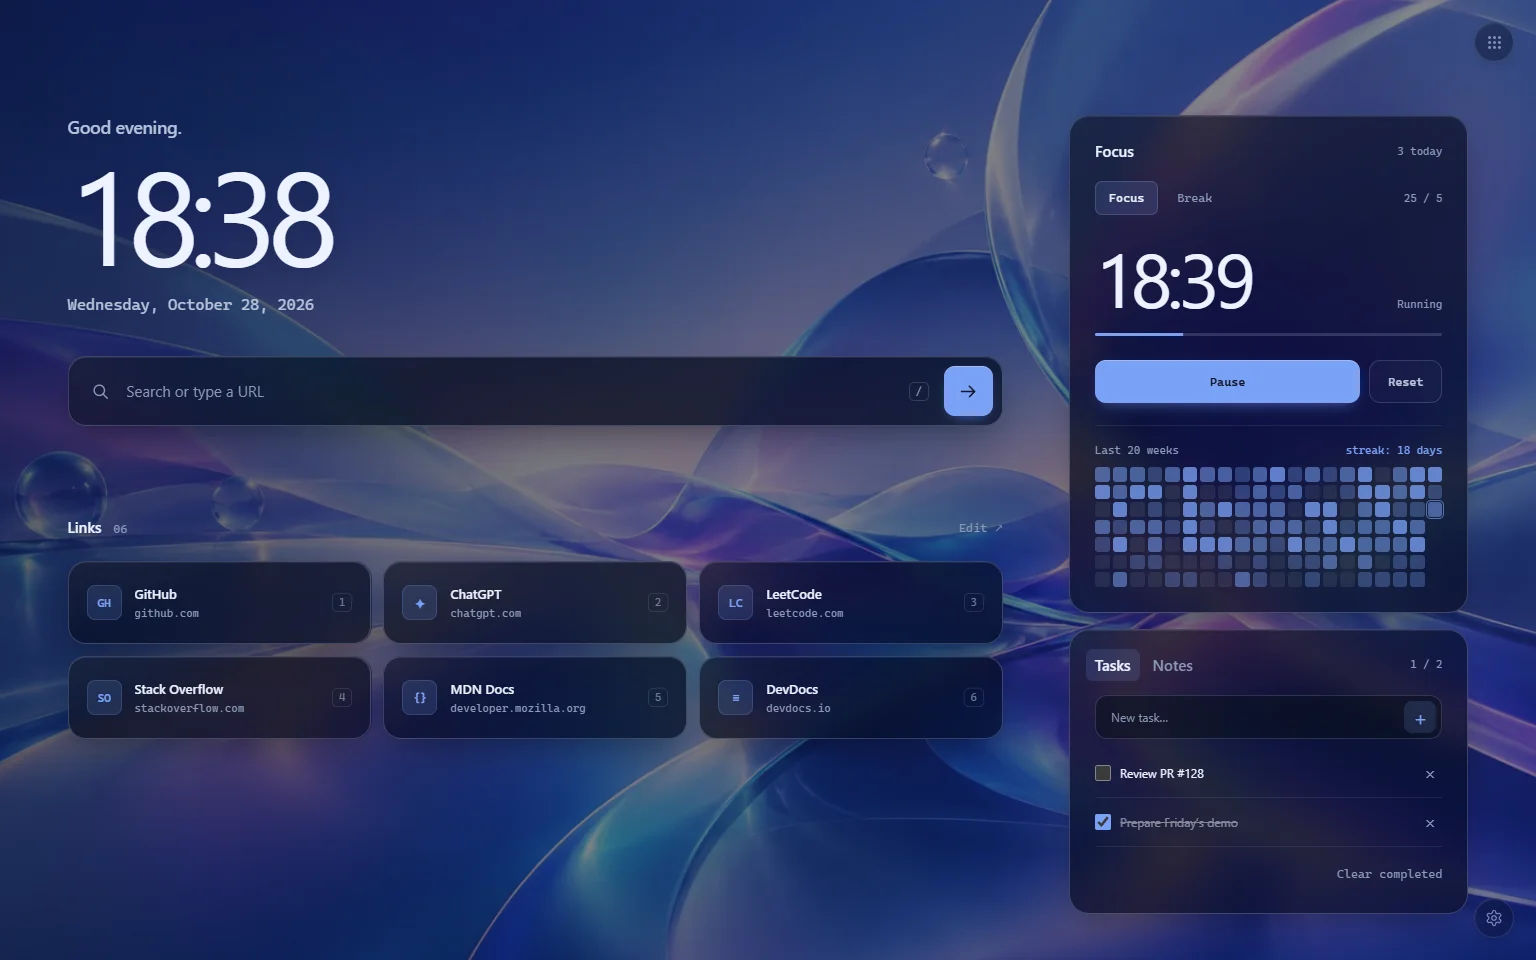
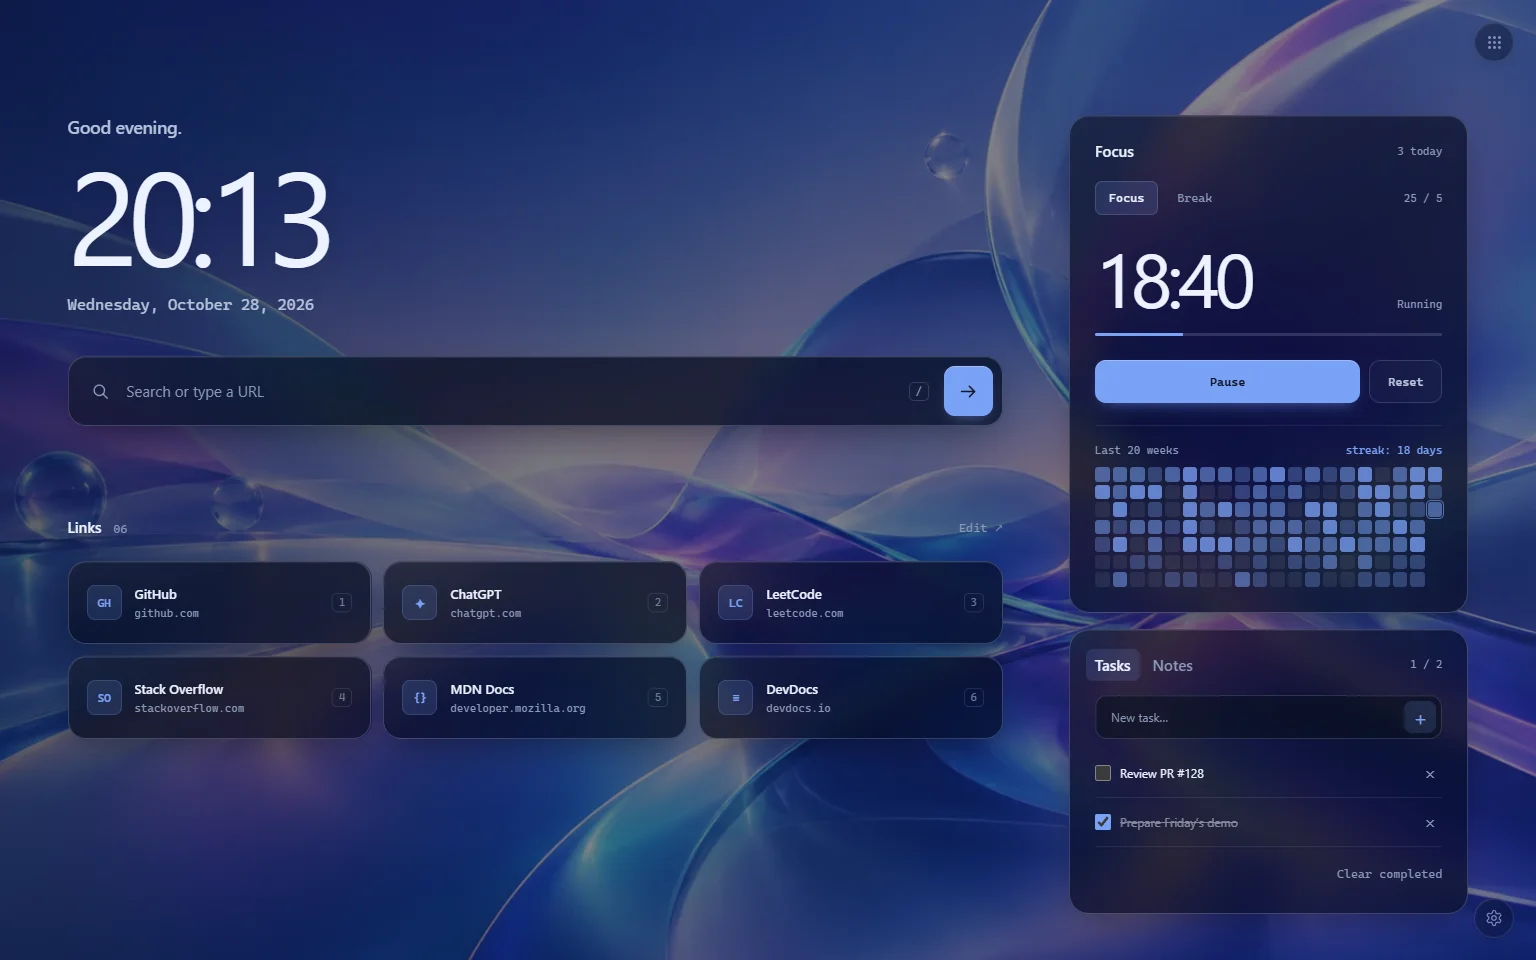
docs(wallpapers): keep the delivered provenance note
Add IMAGE_PROVENANCE.txt to docs/ exactly as it came with the wallpapers,
and point the README's license section to it. The Store notes now say what
it states (made for Atrio, no stock source, rights under the generator's
terms, not a legal guarantee) next to the PNGs' Content Credentials, and no
longer describe a conversion done here. The changelog gives the new sizes
and the Glass screenshot is taken again over the new Liquid Glass file.

Changed region(s): [[0.0312, 0.1562, 0.2188, 0.2812], [0.75, 0.25, 0.8125, 0.3438]]

diff --git a/docs/CHROME_WEB_STORE_LISTING.md b/docs/CHROME_WEB_STORE_LISTING.md
@@ -100,12 +100,14 @@ marked **Decide** or **Check** cannot be settled from the code and are the maint
 - **Wallpapers** (`assets/city.webp`, `assets/workstation.webp`): the author's own images, as stated by the
   maintainer. **Check:** keep the source files, and how they were made, as a record.
 - **Wallpapers added after 3.2.0** (`assets/deep-space.webp`, `warm-sand.webp`, `sunrise-lake.webp`,
-  `liquid-glass.webp`): generated with AI for Atrio on 28 October 2026, not downloaded from a stock library. The
-  original PNG exports carry signed C2PA Content Credentials: created with ChatGPT (`gpt-image`), digital source type
-  `trainedAlgorithmicMedia`, claim signed by OpenAI. They were converted to WebP at the same 1672 × 941 (quality 90;
-  96 for Deep Space, whose dark sky bands at lower settings), which does not carry the credentials over. No license
-  or clearance beyond that is claimed for them. **Check:** keep the original PNG files, with their credentials, as a
-  record, and that the image generator's terms allow this use.
+  `liquid-glass.webp`): generated with AI in ChatGPT for Atrio on 28 October 2026, and shipped as delivered, 1600 × 900
+  WebP files. Their provenance note is kept as delivered in [IMAGE_PROVENANCE.txt](IMAGE_PROVENANCE.txt): generated
+  for this request, not copied from a stock-photo source; no brands, logos or third-party characters intentionally
+  included; use and rights governed by the applicable OpenAI terms and laws; provenance information, not a legal
+  guarantee. The PNG exports of the same images carry signed C2PA Content Credentials (created with ChatGPT,
+  `gpt-image`, digital source type `trainedAlgorithmicMedia`, claim signed by OpenAI); the WebP files carry no
+  metadata. No license or clearance beyond that is claimed for them. **Check:** keep the PNG files, with their
+  credentials, as a record, and that the OpenAI terms allow this use.
 - **Google apps launcher** (`js/google-apps.js`): simplified drawings in each product's colors, made for this project.
   The README and the description say that Atrio is not affiliated with Google. **Decide** after reviewing
   [Google's brand guidance](https://about.google/brand-resource-center/guidance/) and the Store's

diff --git a/CHANGELOG.md b/CHANGELOG.md
@@ -22,7 +22,7 @@
   with the settings, followed by the other open tabs and kept in backups; Classic is the default, and saves from
   earlier versions open in it. The palette can switch it too.
 - **Four new wallpapers**: Deep Space, Warm Sand, Sunrise Lake and Liquid Glass, next to Workstation and City. They ship
-  with the extension as WebP (90–155 KB each) and work offline; the automatic theme takes its accent from them like
+  with the extension as WebP (30–115 KB each) and work offline; the automatic theme takes its accent from them like
   from the others, and backups refer to them by name, without a copy of the image. The default wallpaper and the one
   already chosen do not change.
 

diff --git a/README.md b/README.md
@@ -244,6 +244,7 @@ scripts/             icons, screenshots, extension key
 ## License
 
 [MIT](LICENSE). The Workstation and City wallpapers are the author's own images. Deep Space, Warm Sand, Sunrise Lake and
-Liquid Glass were generated with AI for Atrio, not taken from a stock library; their provenance is recorded in
+Liquid Glass were generated with AI for Atrio, not taken from a stock library; see
+[their provenance note](docs/IMAGE_PROVENANCE.txt) and
 [the Chrome Web Store notes](docs/CHROME_WEB_STORE_LISTING.md#assets-and-trademarks). Atrio is not affiliated with
 Google. Google product names belong to their owners; the launcher icons are simplified drawings made for this project.
